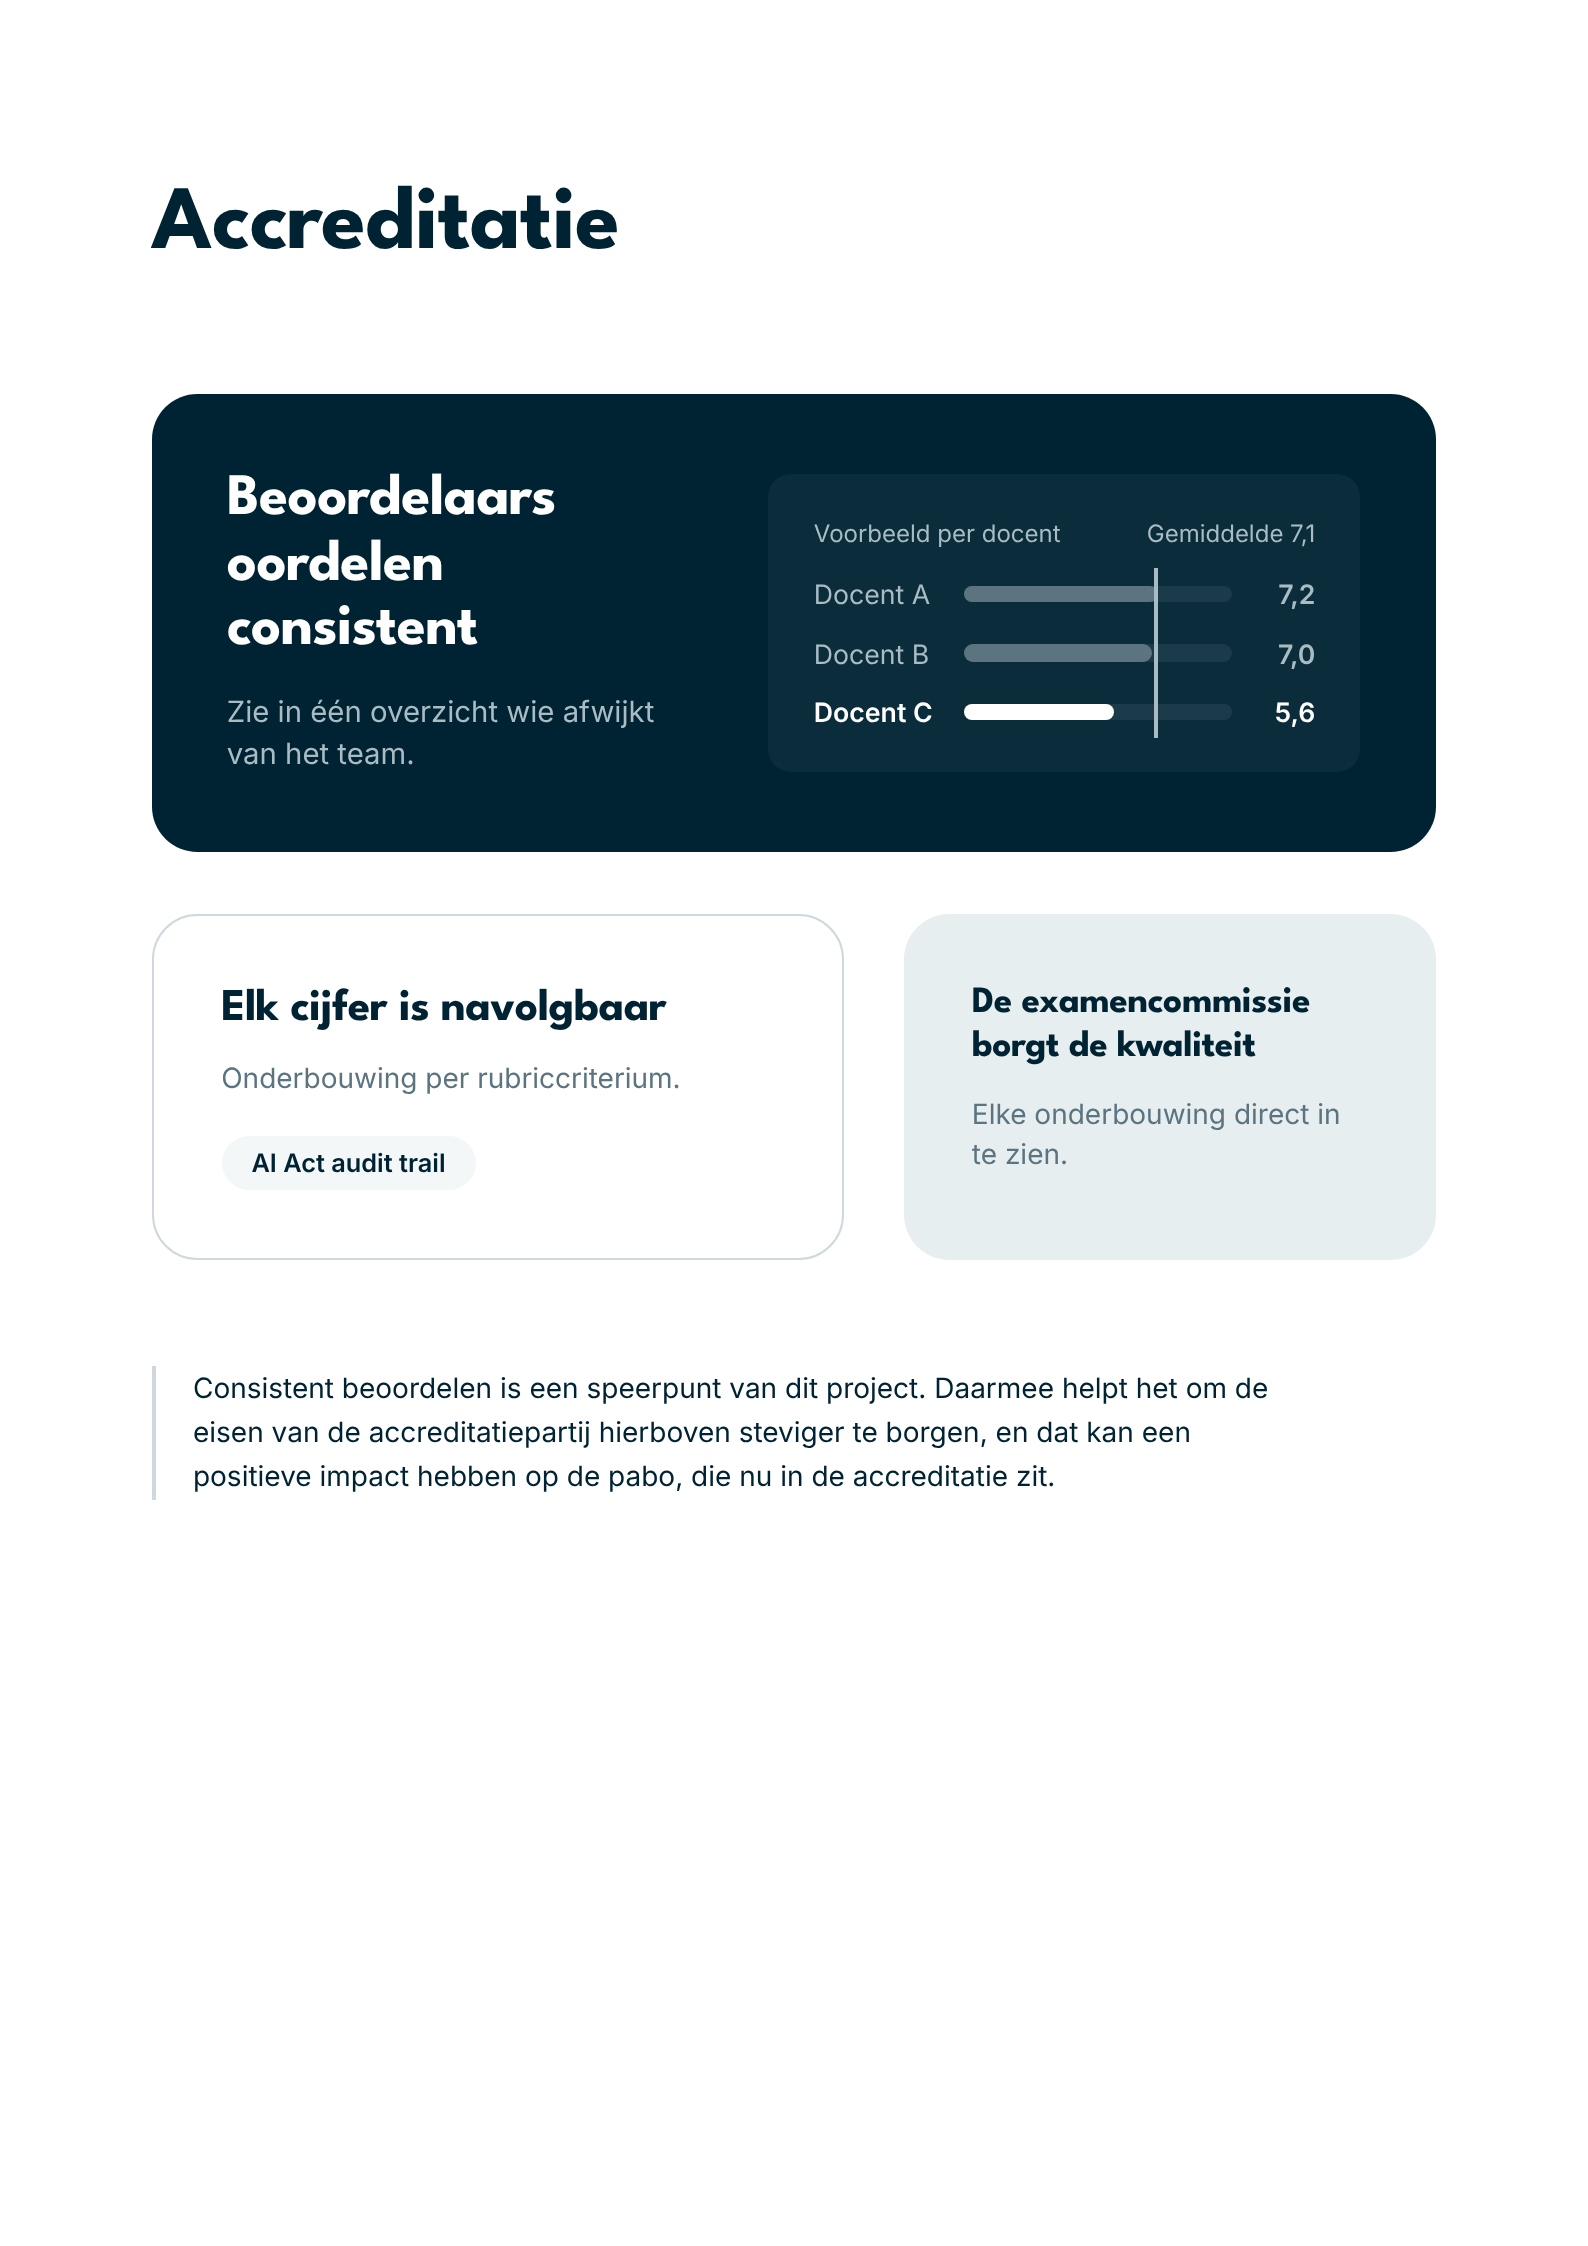
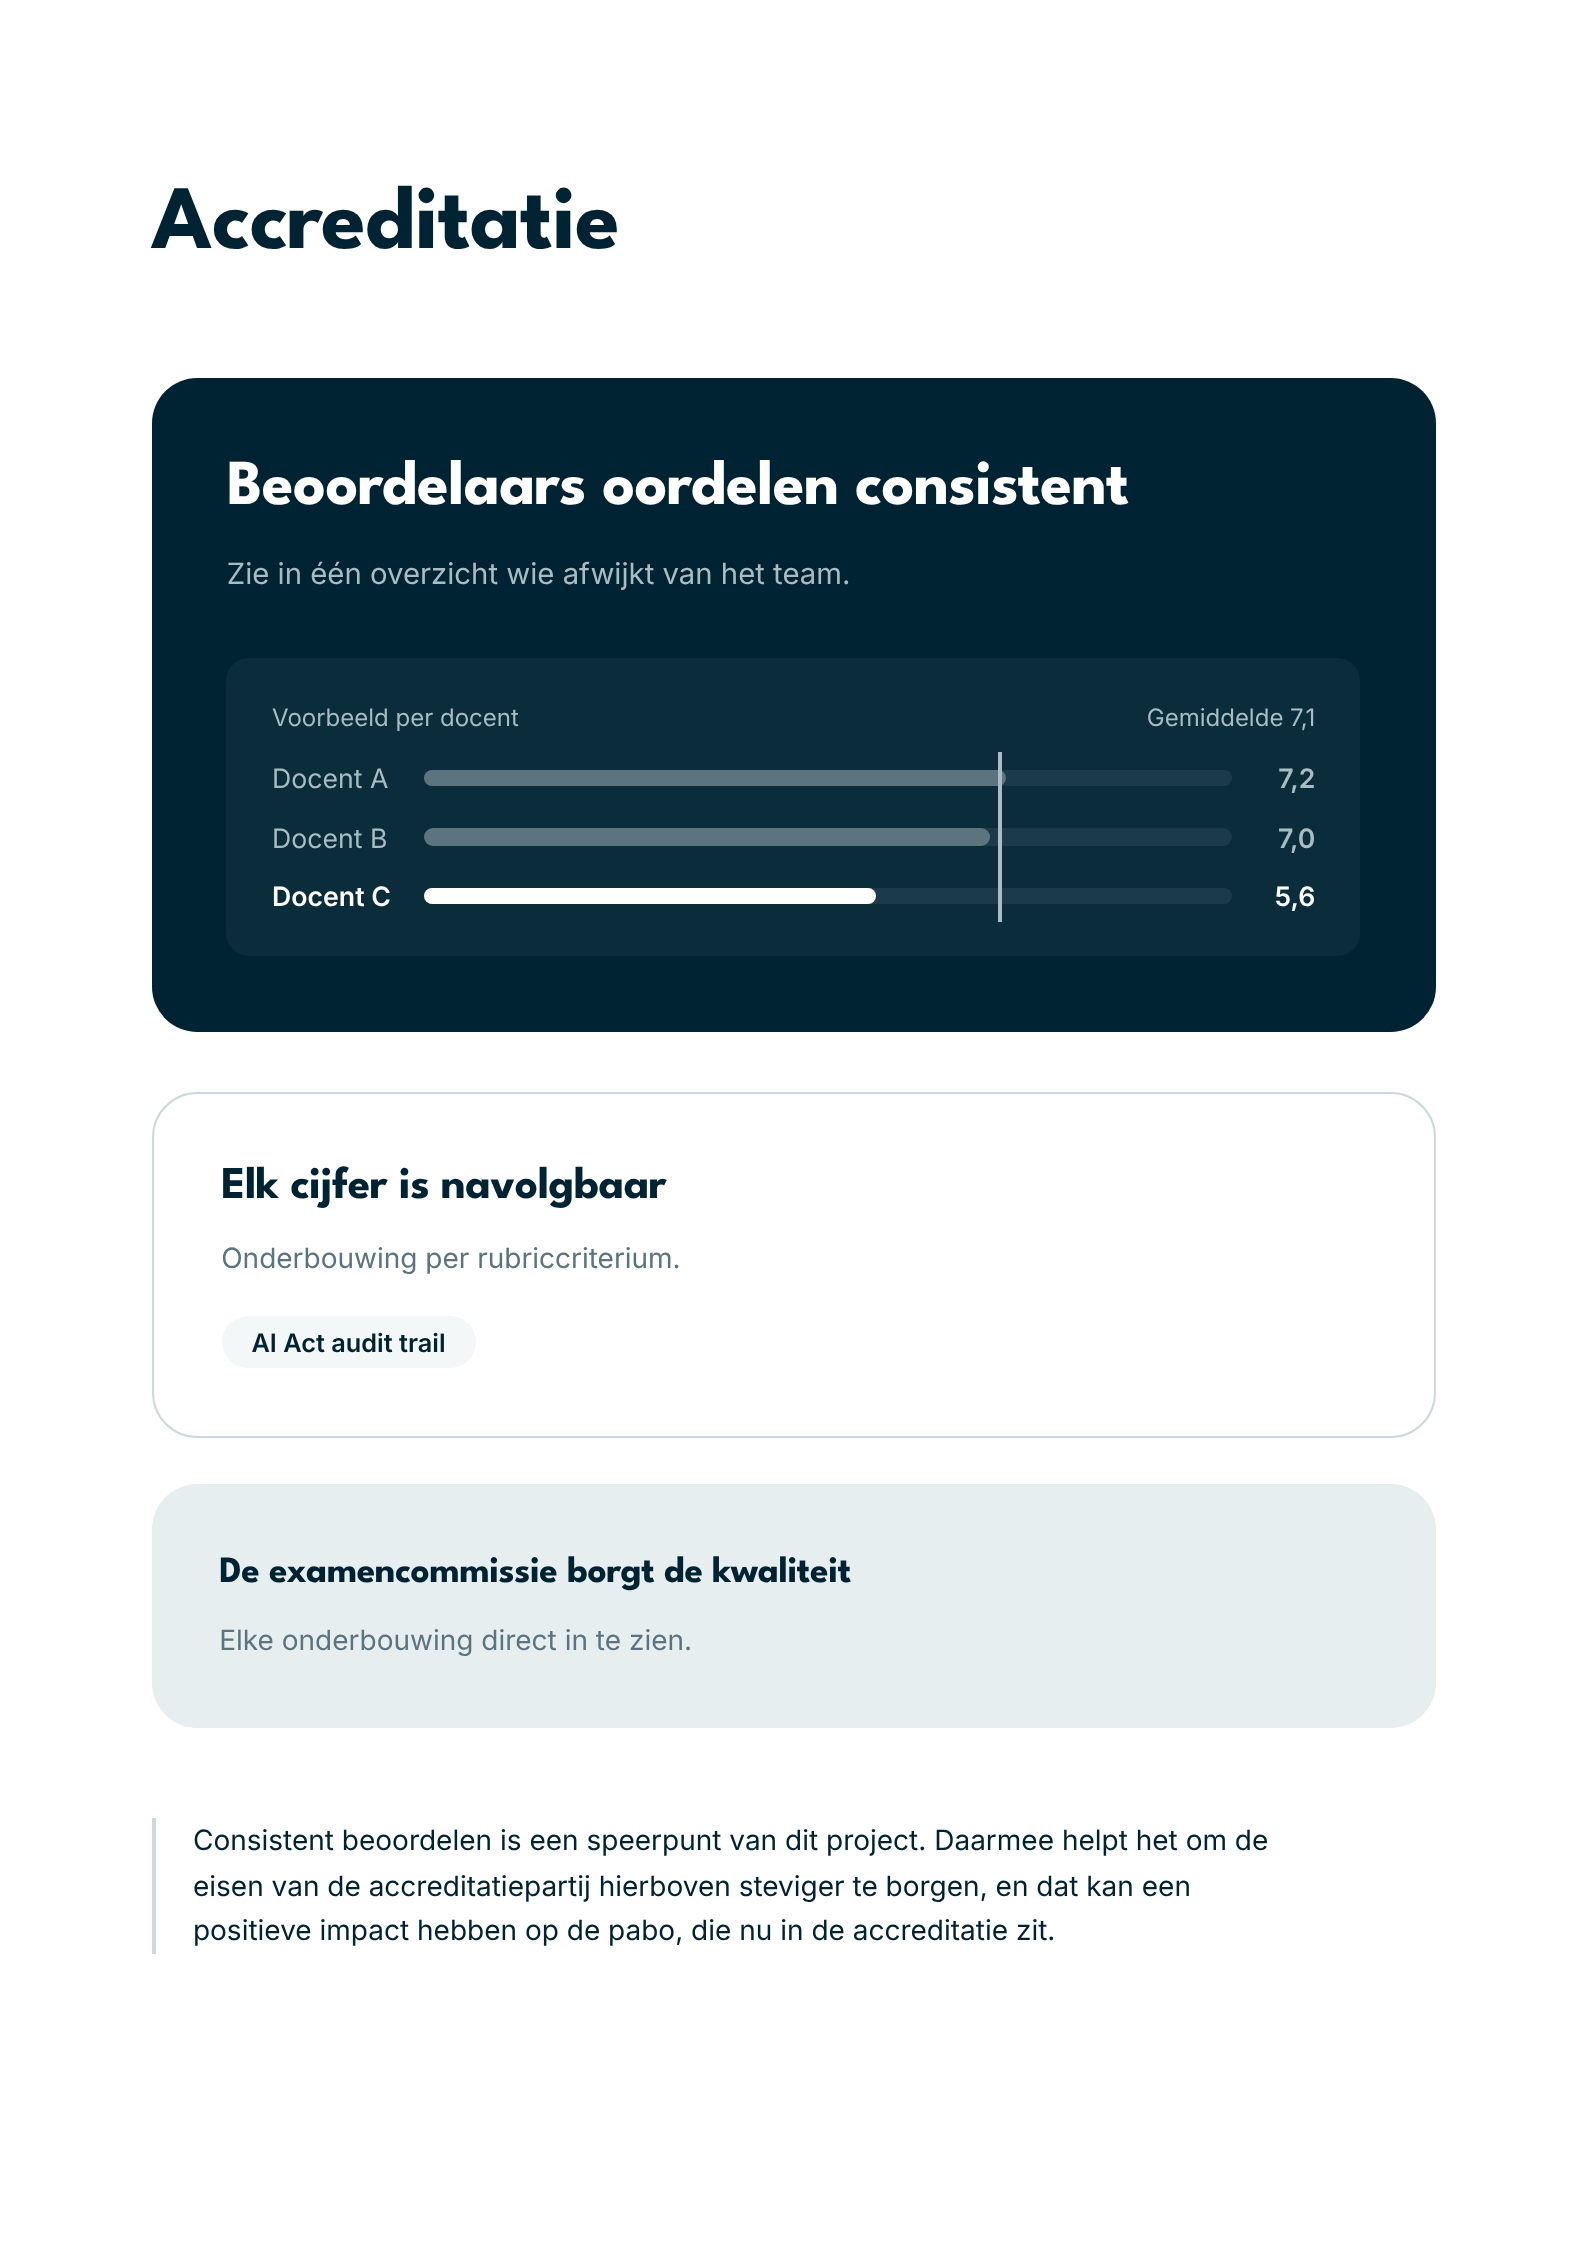
Accreditatie A4: drie kaarten onder elkaar
Claude-Session: https://claude.ai/code/session_011t24oNqE5E2i7wh7JuX2xs

Changed region(s): [[0.0926, 0.1558, 0.9257, 0.561], [0.0926, 0.5922, 0.7406, 0.748], [0.1234, 0.8103, 0.7714, 0.8727]]

diff --git a/Design/Concepts/kwaliteit-cards/a4/accreditatie.html b/Design/Concepts/kwaliteit-cards/a4/accreditatie.html
@@ -17,9 +17,9 @@
   h1 { font-size: 34pt; line-height: 1; }
 
   /* 1. Belangrijkst */
-  .c1 { margin-top: 16mm; background: var(--navy); color: #fff; border-radius: 6mm; padding: 10mm;
-        display: grid; grid-template-columns: 1fr 1.25fr; gap: 9mm; align-items: center; }
-  .c1 h2 { font-size: 22pt; line-height: 1.1; }
+  .c1 { margin-top: 14mm; background: var(--navy); color: #fff; border-radius: 6mm; padding: 10mm;
+        display: grid; gap: 8mm; }
+  .c1 h2 { font-size: 24pt; line-height: 1.1; }
   .c1 p { margin-top: 4mm; font-size: 11pt; line-height: 1.45; color: var(--muted-inv); }
   .chart { background: var(--panel); border-radius: 3mm; padding: 6mm; display: grid; gap: 4mm; }
   .head { display: flex; justify-content: space-between; font-size: 9pt; color: var(--muted-inv); }
@@ -35,7 +35,7 @@
          left: calc(20mm + (100% - 31mm) * 0.71); }
 
   /* 2 en 3 */
-  .duo { margin-top: 8mm; display: grid; grid-template-columns: 1.3fr 1fr; gap: 8mm; }
+  .duo { margin-top: 8mm; display: grid; grid-template-columns: 1fr; gap: 6mm; }
   .card { border-radius: 6mm; padding: 9mm; }
   .c2 { border: 0.3mm solid var(--ink200); }
   .c2 h2 { font-size: 17pt; line-height: 1.15; }
@@ -46,7 +46,7 @@
          background: var(--ink50); font-size: 9.5pt; font-weight: 600; }
 
   /* Aanvulling, ondergeschikt */
-  .note { margin-top: 14mm; padding-left: 5mm; border-left: 0.6mm solid var(--ink200);
+  .note { margin-top: 12mm; padding-left: 5mm; border-left: 0.6mm solid var(--ink200);
           font-size: 10.5pt; line-height: 1.6; max-width: 150mm; }
 </style>
 </head>
